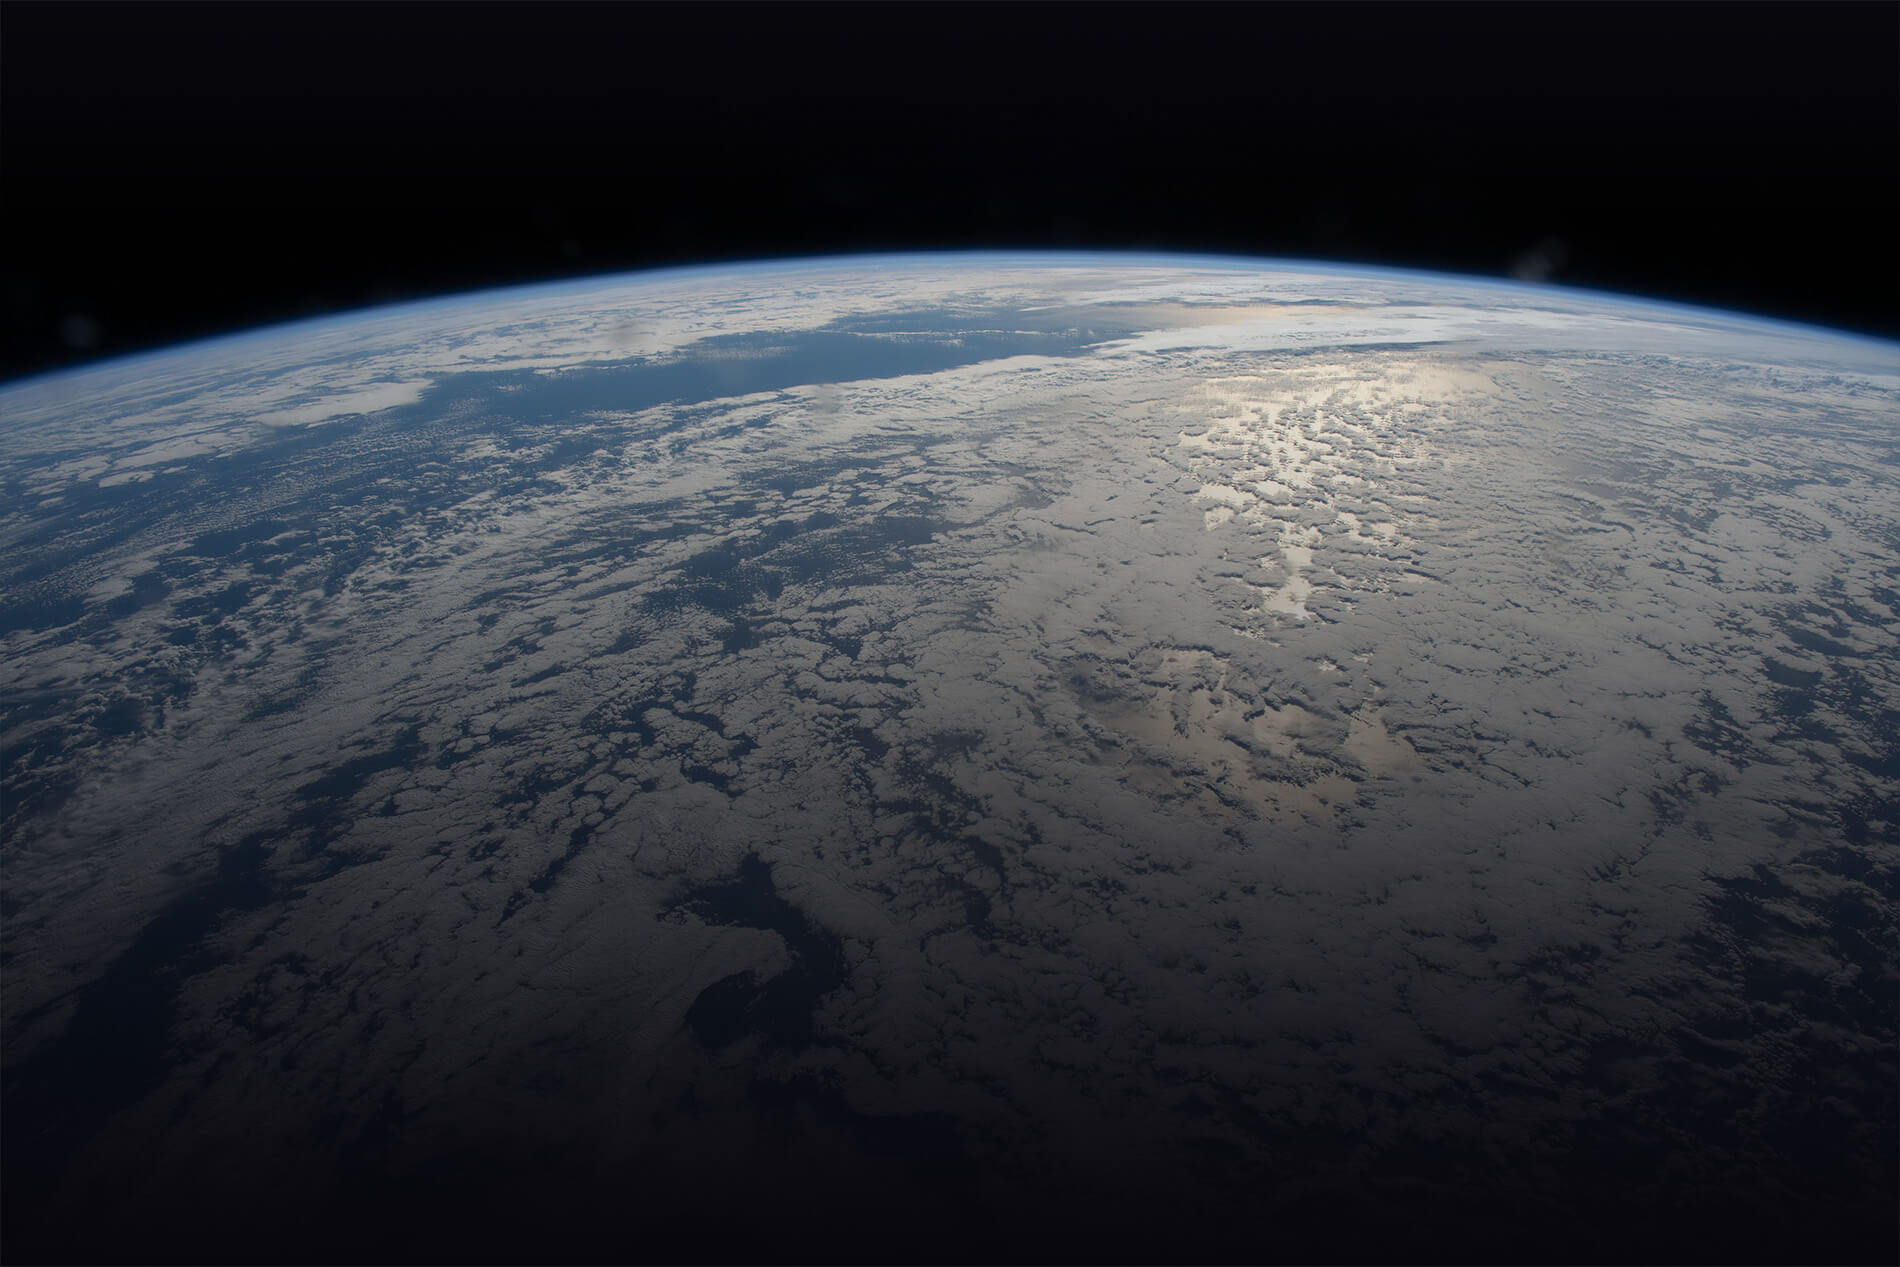
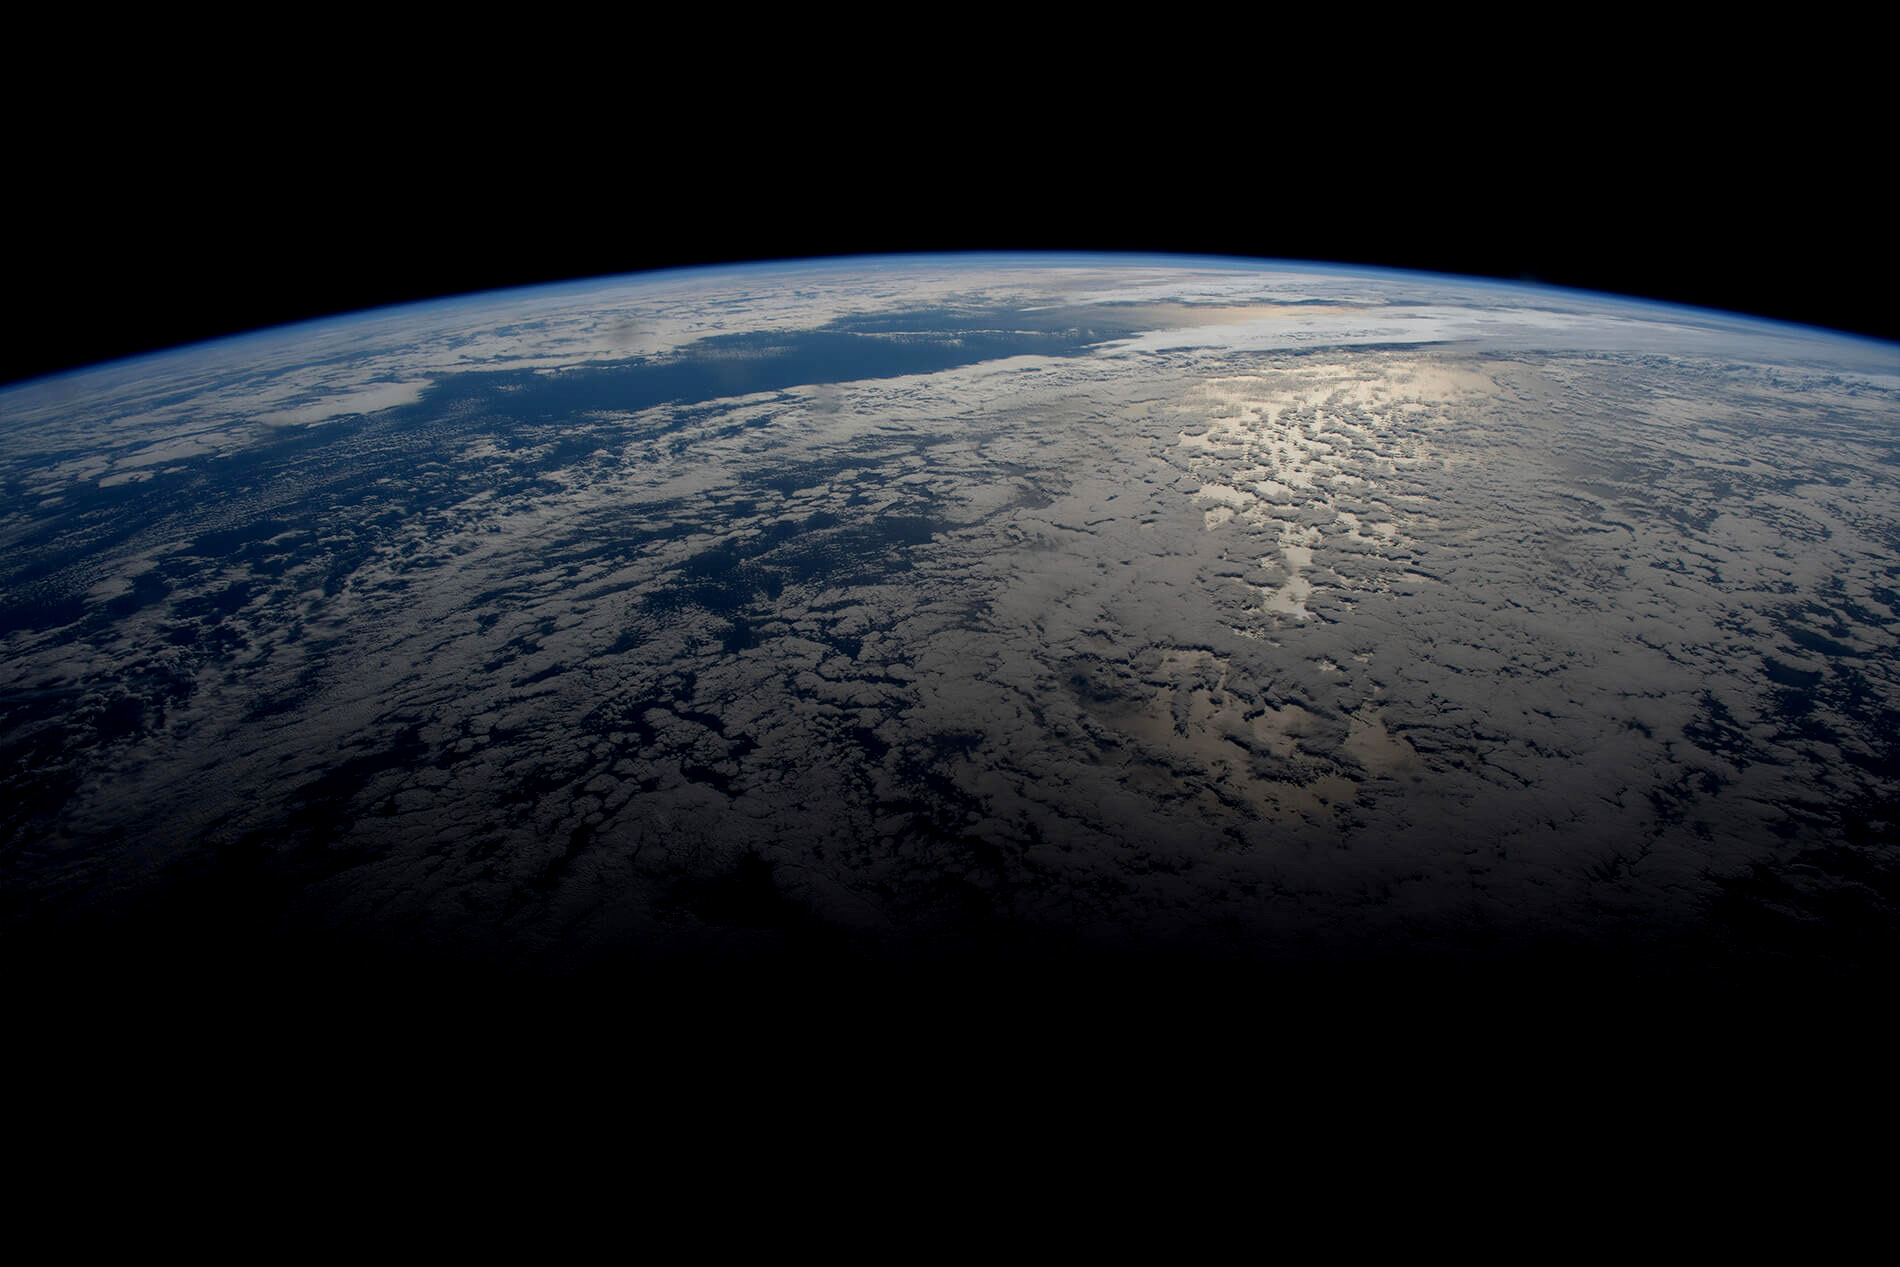
Added people in space page

diff --git a/people_in_space.html b/people_in_space.html
@@ -3,13 +3,19 @@
     <head>
         <meta charset="UTF-8" />
         <meta name="viewport" content="width=device-width, initial-scale=1.0" />
-        <title>SpaceX | Explore the solar system</title>
+        <title>SpaceX | People in space right now</title>
         <link
             href="https://fonts.googleapis.com/css2?family=Montserrat:wght@100;200;400;700;900&display=swap"
             rel="stylesheet"
         />
         <link rel="stylesheet" href="css/reset.css" />
         <link rel="stylesheet" href="css/base.css" />
+        <link
+            rel="stylesheet"
+            href="https://cdnjs.cloudflare.com/ajax/libs/font-awesome/5.14.0/css/all.min.css"
+            integrity="sha512-1PKOgIY59xJ8Co8+NE6FZ+LOAZKjy+KY8iq0G4B3CyeY6wYHN3yt9PW0XpSriVlkMXe40PTKnXrLnZ9+fkDaog=="
+            crossorigin="anonymous"
+        />
     </head>
     <body>
         <!-- Header section is fixed and will follow the user when scrolling -->
@@ -55,109 +61,56 @@
         </header>
 
         <main>
-            <!-- Hero section for solar systen -->
-            <div class="hero hero--solarsystem">
-                <h1><span>Meet the</span> <span>neighbors</span></h1>
-                <p class="solarsystem__blurb max-width">
-                    Our solar system consists of our star, the Sun, and
-                    everything bound to it by gravity — the planets Mercury,
-                    Venus, Earth, Mars, Jupiter, Saturn, Uranus and Neptune,
-                    dwarf planets such as Pluto, dozens of moons and millions of
-                    asteroids, comets and meteoroids.
-                    <span>Let’s explore our solar system</span>
-                </p>
-                <img
-                    src="img/graphics/chevron_down_white.svg"
-                    alt="Arrow pointing down"
-                    class="chevron"
-                />
-            </div>
+            <!-- Hero section with countdown to next launch -->
+            <div class="hero hero--peopleInSpace">
+                <div class="hero__overlay"></div>
+                <h1><span>People</span> <span>in space</span></h1>
+                <div class="peopleInSpace-container">
+                    <p class="peopleInSpace__blurb">Right now, there are</p>
+                    <p class="numberOfPeople">–</p>
+                    <p class="peopleInSpace__blurb">humans in space</p>
+                    <div class="loader"><p>Loading…</p></div>
+                    <div class="peopleInSpace__error__container"></div>
+                    <div class="astronauts">
+                        <!-- <div class="astronaut">
+                            <i class="fas fa-user-astronaut"></i>
+                            <p class="astronaut__heading">Astronaut:</p>
+                            <p class="astronaut__name">Chris Cassidy</p>
+                            <p class="astronaut__craft">On board the ISS</p>
+                        </div>
 
-            <!-- <section class="sun">
-                <div class="planet max-width">
-                    <div class="planet__top">
-                        <div class="planet__heading">
-                            <p class="planet__number">00</p>
-                            <p class="planet__tagline">Our Star</p>
-                            <h2 class="planet__name">The Sun</h2>
+                        <div class="astronaut">
+                            <i class="fas fa-user-astronaut"></i>
+                            <p class="astronaut__heading">Astronaut:</p>
+                            <p class="astronaut__name">Chris Cassidy</p>
+                            <p class="astronaut__craft">On board the ISS</p>
                         </div>
-                        <p class="planet__description">
-                            The Sun is a yellow dwarf star, a hot ball of
-                            glowing gases at the heart of our solar system. Its
-                            gravity holds the solar system together, keeping
-                            everything – from the biggest planets to the
-                            smallest particles of debris – in its orbit. The
-                            connection and interactions between the Sun and
-                            Earth drive the seasons, ocean currents, weather,
-                            climate, radiation belts and auroras.
-                        </p>
-                    </div>
-                    <img
-                        src="img/photos/solar_system/sun.jpg"
-                        alt="The Sun – Our own star"
-                        class="planet__img"
-                    />
-                    <div class="planet__bottom">
-                        <div class="planet__facts">
-                            <div class="planet__fact">
-                                <p class="planet__fact__type">Star type</p>
-                                <p class="planet__fact__text">Yellow dwarf</p>
-                            </div>
-                            <div class="planet__fact">
-                                <p class="planet__fact__type">Planets</p>
-                                <p class="planet__fact__text">8</p>
-                            </div>
-                            <div class="planet__fact">
-                                <p class="planet__fact__type">
-                                    Equatorial radius
-                                </p>
-                                <p class="planet__fact__text">695,508 km</p>
-                            </div>
-                            <div class="planet__fact">
-                                <p class="planet__fact__type">
-                                    Distance from galactic center
-                                </p>
-                                <p class="planet__fact__text">
-                                    26,000 light years
-                                </p>
-                            </div>
-                            <div class="planet__fact">
-                                <p class="planet__fact__type">Age</p>
-                                <p class="planet__fact__text">
-                                    ~ 4.5 billion years
-                                </p>
-                            </div>
-                        </div>
+
+                        <div class="astronaut">
+                            <i class="fas fa-user-astronaut"></i>
+                            <p class="astronaut__heading">Astronaut:</p>
+                            <p class="astronaut__name">Chris Cassidy</p>
+                            <p class="astronaut__craft">On board the ISS</p>
+                        </div> -->
                     </div>
                 </div>
-            </section> -->
+            </div>
 
-            <section class="planets max-width"></section>
-
-            <section class="other-worlds max-width">
-                <h2>
-                    <span>What else might</span>
-                    <span>be out there?</span>
-                </h2>
-                <img
-                    src="img/photos/solar_system/other_worlds.jpg"
-                    alt="Render of what a distant star might look like up close"
-                />
+            <!-- We are sending more-->
+            <section class="about max-width">
+                <h2>…and we are sending even more</h2>
                 <p>
-                    We continue to aim for the stars in the hope of one day
-                    reaching unknown worlds, and to discover all its hidden
-                    secrets.
+                    We are working on a next generation of fully reusable launch
+                    vehicles that will be the most powerful ever built, capable
+                    of carrying humans to Mars and other destinations in the
+                    solar system.
                 </p>
-                <a href="#" class="btn btn--primary">Join us</a>
+                <a href="#" class="btn btn--primary">Learn more</a>
             </section>
         </main>
 
         <footer>
             <div class="pre-footer">
-                <img
-                    src="img/photos/footer_grey.jpg"
-                    alt="Our Falcon 9 rocket during launch"
-                />
                 <div class="spacer-line"></div>
                 <div class="spacer-line--end"></div>
                 <section class="quote__neil max-width">
@@ -220,7 +173,6 @@
 
         <!-- Javascript below this line -->
         <script src="js/headerScroll.js"></script>
-        <script src="js/planets.js"></script>
-        <script src="js/solarsystem.js"></script>
+        <script src="js/peopleInSpace.js"></script>
     </body>
 </html>

diff --git a/js/peopleInSpace.js b/js/peopleInSpace.js
@@ -1,0 +1,57 @@
+const baseUrl = "http://api.open-notify.org/astros.json";
+const corsEnabled = "https://noroffcors.herokuapp.com/";
+const url = corsEnabled + baseUrl;
+const loader = document.querySelector(".loader");
+const errorContainer = document.querySelector(
+    ".peopleInSpace__error__container"
+);
+
+async function fetchAstronauts() {
+    try {
+        // use await when calling fetch
+        const response = await fetch(url);
+        // use await when resolving the returned value, which is a promise
+        const json = await response.json();
+        // pass the array of astronauts to the displayAstronauts function
+        displayAstronauts(json);
+        loader.style.display = "none";
+    } catch (error) {
+        console.log(error);
+        errorContainer.innerHTML = `
+        <p class="error__message">
+            Houston, we have a problem…
+        </p>
+    `;
+    }
+}
+
+// call the fetchAstronaus function
+fetchAstronauts();
+
+function displayAstronauts(json) {
+    // declare a variable for the astronauts
+    const astronauts = json.people;
+    // select the element where we will attach the HTML we create
+    const astronautContainer = document.querySelector(".astronauts");
+    // select the element where the number of astronauts will be displayed
+    const numberContainer = document.querySelector(".numberOfPeople");
+    // assign the number as innertext for the numberContainer
+    numberContainer.innerText = json.number;
+
+    // declare a variable to hold the HTML we will create
+    let html = "";
+
+    // loop through each astronaut using a for loop
+    for (let i = 0; i < astronauts.length; i++) {
+        // add the new HTML string to the existing HTML string
+        html += `<div class="astronaut">
+                    <i class="fas fa-user-astronaut"></i>
+                    <p class="astronaut__heading">Astronaut:</p>
+                    <p class="astronaut__name">${astronauts[i].name}</p>
+                    <p class="astronaut__craft">On board the ${astronauts[i].craft}</p>
+                </div>`;
+    }
+
+    // assign the new HTML string to the innerHTML property of astronautContainer
+    astronautContainer.innerHTML = html;
+}

diff --git a/css/peopleInSpace.css b/css/peopleInSpace.css
@@ -1,0 +1,61 @@
+.peopleInSpace-container {
+    margin-top: 2rem;
+    text-align: center;
+    z-index: 1;
+}
+
+.peopleInSpace__blurb {
+    text-transform: uppercase;
+    margin: 0;
+}
+
+.numberOfPeople {
+    font-size: 4.7rem;
+    font-weight: 900;
+    color: var(--clr-green-light);
+    margin: 0;
+    line-height: 1;
+}
+
+@supports (-webkit-text-stroke: 1px var(--clr-green-light)) {
+    .numberOfPeople {
+        -webkit-text-stroke: 1px var(--clr-green-light);
+        -webkit-text-fill-color: transparent;
+    }
+}
+
+.hero__overlay {
+    background: linear-gradient(to bottom, rgba(0, 0, 0, 0), black);
+    position: absolute;
+    top: 0;
+    right: 0;
+    bottom: 0;
+    left: 0;
+    content: "";
+}
+
+.astronauts {
+    padding-top: 4rem;
+    display: flex;
+    flex-wrap: wrap;
+    justify-content: center;
+}
+
+.astronaut {
+    margin: 1rem;
+}
+
+.astronaut i {
+    font-size: 2rem;
+}
+
+.astronaut p {
+    margin: 0;
+    font-size: 0.85rem;
+    line-height: 1.4;
+}
+
+.astronaut__name {
+    font-size: 1rem;
+    font-weight: 900;
+}

diff --git a/css/hero.css b/css/hero.css
@@ -19,6 +19,15 @@
     padding-bottom: 7rem;
 }
 
+.hero--peopleInSpace {
+    background: url(../img/photos/people_in_space/outer_atmos.jpg) no-repeat;
+    background-size: cover;
+    background-position: bottom -20rem center;
+    /* justify-content: flex-end; */
+    position: relative;
+    padding-top: 8rem;
+}
+
 .hero h1 {
     opacity: 0;
     transform: translateY(75px);

diff --git a/css/variables.css b/css/variables.css
@@ -5,6 +5,7 @@
     --clr-space-grey: #bdbdbd;
     --clr-dark-grey: #272626;
     --clr-green: #0c574e;
+    --clr-green-light: #00c4ad;
     --clr-green-semi: #0c574e40;
     --clr-sand: #d0a270;
     --clr-black: #000;

diff --git a/css/base.css b/css/base.css
@@ -6,6 +6,7 @@
 @import url("apod.css");
 @import url("footer.css");
 @import url("solarsystem.css");
+@import url("peopleInSpace.css");
 
 html {
     font-size: var(--fs-mobile);
